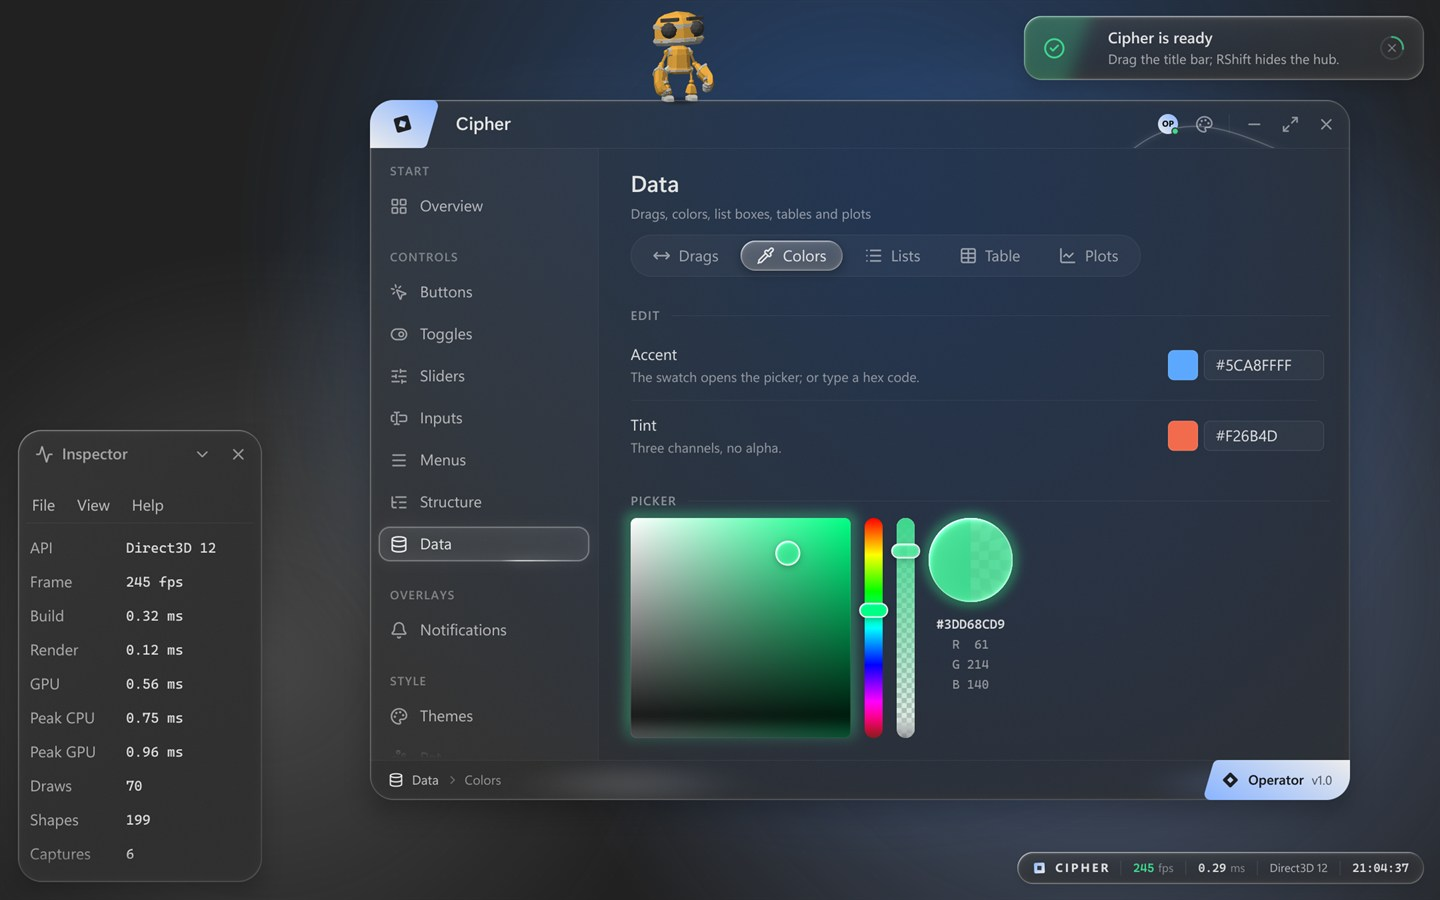
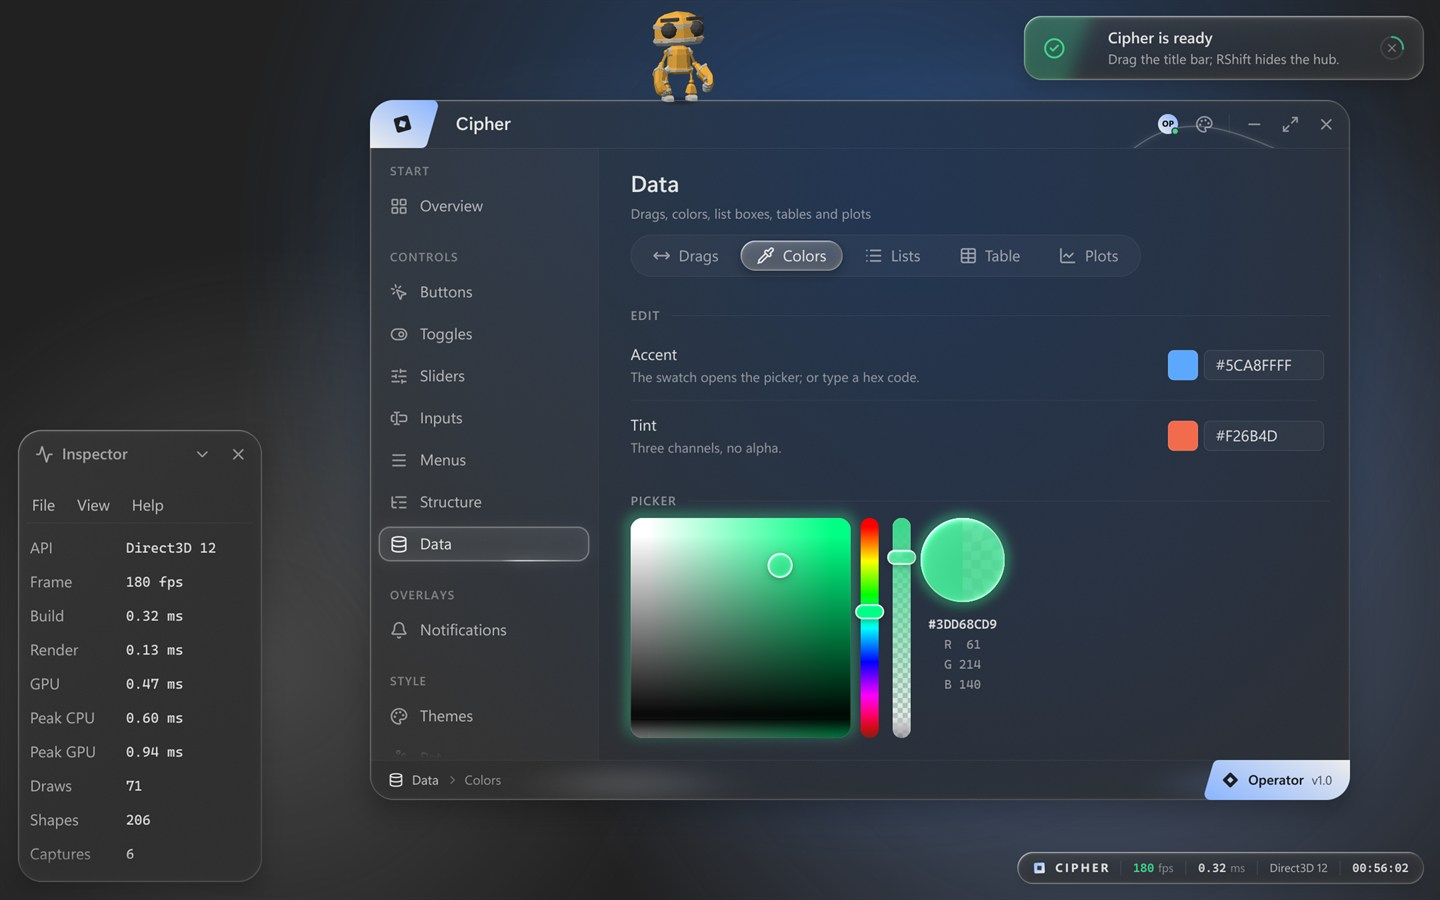
color picker: by the layer rule; knobs that stay on their bar and square; a drop-down clipped to its surface
- In a ColorEdit's popup (18), the picker sits one step in and its square is rounded 12, concentric with the popup's
  corners. It sat two steps in with corners of 6, which looked sharp and stepped beside the popup's. The square is
  rounded 12 in a full picker too.
- Each bar is a column: the bar and its knob's overhang at rest, a step before it. Every gap is a step to what shows at
  rest: the square to the hue knob, knob to knob, the alpha knob to the popup's edge and to the orb.
- The bars' knobs run between the centers of their rounded ends. At the very top they hung half off the bar, and the
  lens showed the dark beyond it: a piece of the knob looked missing. The colors run along the same span, the ends
  keep the end colors, so the color under a knob is its value.
- The square's knob runs as far in from the edges as it is wide when swollen, so at an edge or a corner it is all
  over the square. The square's colors run along that span, the run's edge colors beyond it.
- A drop-down's content is clipped to its surface, not to its padding. A knob's rim and shadow reach into the padding,
  and so did the bottom rim of a combo's selection pill when the last item was chosen; both were cut.

Other popups are pixel for pixel as before; docs/hero.jpg is captured again.

Changed region(s): [[0.5938, 0.56, 0.7188, 0.84], [0.4375, 0.56, 0.5, 0.6533], [0.5312, 0.5911, 0.5625, 0.6533]]

diff --git a/cipher/data.cpp b/cipher/data.cpp
@@ -466,17 +466,27 @@ namespace cipher
                 cs.v = v;
             }
         }
-        const float bar = 18.0f, gap = 14.0f, orbD = 84.0f;
-        const float bars = (alpha ? 2.0f : 1.0f) * (bar + gap);
+        // each bar a column: the bar and its knob's overhang at rest on both sides, a step before it - every gap a step,
+        // counted to what shows at rest
+        const float bar = 18.0f, over = 4.0f, step = m::kStep, orbD = 84.0f;
+        const float bars = (alpha ? 2.0f : 1.0f) * (step + over + bar + over);
         const float avail = ContentWidth();
         const float S = std::max(std::min(220.0f, avail - bars), 80.0f);
-        const bool orb = avail >= S + bars + gap + orbD;
-        const Rect area = ItemRect(Vec2(S + bars + (orb ? gap + orbD : 0.0f), S));
+        const bool orb = avail >= S + bars + step + orbD;
+        const Rect area = ItemRect(Vec2(S + bars + (orb ? step + orbD : 0.0f), S));
         ctx_.ItemAdd(0, area);
         const Rect sq(area.min, area.min + Vec2(S, S));
-        const Rect hueR(sq.max.x + gap, sq.min.y, sq.max.x + gap + bar, sq.max.y);
-        const Rect alR(hueR.max.x + gap, sq.min.y, hueR.max.x + gap + bar, sq.max.y);   // with alpha
+        const Rect hueR(sq.max.x + step + over, sq.min.y, sq.max.x + step + over + bar, sq.max.y);
+        const Rect alR(hueR.max.x + over + step + over, sq.min.y, hueR.max.x + over + step + over + bar, sq.max.y);   // with alpha
+        // the square a layer in from what holds it: in a popup (18) one step in, its corners concentric with the popup's
+        const float sqR = m::kRadiusControl;
         const float alphaNow = alpha ? col[3] : 1.0f;
+        // the bars' knobs run between the centers of their rounded ends: at either end a knob is round with the end, all
+        // of the bar's color under it (from the bar's very end it hung half off the bar, a lens on what lay beyond)
+        const float ends = bar * 0.5f, run = S - 2.0f * ends;
+        // and the square's knob as far in from its edges as it is wide swollen: at an edge or a corner it is all over the
+        // square, the colors along its run, beyond it the run's edge colors
+        const float inSV = 18.0f, runSV = S - 2.0f * inSV;
         const InputState& in = ctx_.Input();
         const double now = in.Time();
         bool changed = false;
@@ -494,18 +504,18 @@ namespace cipher
         };
         if (dragArea(1, sq))
         {
-            cs.s = Clamp01((in.MousePos().x - sq.min.x) / S);
-            cs.v = 1.0f - Clamp01((in.MousePos().y - sq.min.y) / S);
+            cs.s = Clamp01((in.MousePos().x - sq.min.x - inSV) / runSV);
+            cs.v = 1.0f - Clamp01((in.MousePos().y - sq.min.y - inSV) / runSV);
             changed = true;
         }
         if (dragArea(2, hueR))
         {
-            cs.h = std::min(Clamp01((in.MousePos().y - hueR.min.y) / S), 0.9999f);
+            cs.h = std::min(Clamp01((in.MousePos().y - hueR.min.y - ends) / run), 0.9999f);
             changed = true;
         }
         if (alpha && dragArea(3, alR))
         {
-            col[3] = 1.0f - Clamp01((in.MousePos().y - alR.min.y) / S);
+            col[3] = 1.0f - Clamp01((in.MousePos().y - alR.min.y - ends) / run);
             changed = true;
         }
         if (changed)
@@ -532,22 +542,39 @@ namespace cipher
         const Color glow = AnimColor(id, 0, picked, kSmooth);
         // the square: its hue the knob's (it glides with it), a glow of the color picked around it
         const Color hue = HueColor(cs.hy.value);
-        Style square = Style().Radius(m::kRadiusInner).Fill(Paint::Linear(Color::White(), hue, 0.0f));
+        Style square = Style().Radius(sqR).Fill(Paint::Linear(Color::White(), hue, 0.0f));
         if (windows_.empty() || !windows_.back().popup)
             square.Glow(glow, 14.0f, 0.3f);
         p.Rect(sq, square);
-        p.Rect(sq, Style().Radius(m::kRadiusInner).Fill(Paint::Linear(Color(0.0f, 0.0f, 0.0f, 0.0f), Color::Black(), 90.0f)).Stroke(1.0f / pixelScale_, Ink(0.12f), 0.0f));
+        {
+            const float x0 = sq.min.x + inSV, x1 = sq.max.x - inSV, y0 = sq.min.y + inSV, y1 = sq.max.y - inSV;
+            p.PushMask(sq, sqR);
+            p.Rect(Rect(sq.min.x, sq.min.y, x0 + 0.5f, sq.max.y), Style().Fill(Color::White()));
+            p.Rect(Rect(x0, sq.min.y, x1, sq.max.y), Style().Fill(Paint::Linear(Color::White(), hue, 0.0f)));
+            p.Rect(Rect(x1 - 0.5f, sq.min.y, sq.max.x, sq.max.y), Style().Fill(hue));
+            p.Rect(Rect(sq.min.x, y0, sq.max.x, y1), Style().Fill(Paint::Linear(Color(0.0f, 0.0f, 0.0f, 0.0f), Color::Black(), 90.0f)));
+            p.Rect(Rect(sq.min.x, y1 - 0.5f, sq.max.x, sq.max.y), Style().Fill(Color::Black()));
+            p.PopMask();
+        }
+        p.Rect(sq, Style().Radius(sqR).Fill(Color(0.0f, 0.0f, 0.0f, 0.0f)).Stroke(1.0f / pixelScale_, Ink(0.12f), 0.0f));
+        // the colors along the knobs' run, each end the color of the run's end
         p.PushMask(hueR, bar * 0.5f);
+        p.Rect(Rect(hueR.min.x, hueR.min.y, hueR.max.x, hueR.min.y + ends + 0.5f), Style().Fill(HueColor(0.0f)));
         for (int i = 0; i < 6; ++i)
         {
             const float a = (float)i / 6.0f, z = (float)(i + 1) / 6.0f;
-            p.Rect(Rect(hueR.min.x, hueR.min.y + S * a, hueR.max.x, hueR.min.y + S * z + 0.5f), Style().Fill(Paint::Linear(HueColor(a), HueColor(z), 90.0f)));
+            p.Rect(Rect(hueR.min.x, hueR.min.y + ends + run * a, hueR.max.x, hueR.min.y + ends + run * z + 0.5f), Style().Fill(Paint::Linear(HueColor(a), HueColor(z), 90.0f)));
         }
+        p.Rect(Rect(hueR.min.x, hueR.max.y - ends, hueR.max.x, hueR.max.y), Style().Fill(HueColor(1.0f)));
         p.PopMask();
         if (alpha)
         {
             Checker(p, alR, bar * 0.5f, 5.0f, Color::Hex(0xEDEDED), Color::Hex(0xBDBDBD));
-            p.Rect(alR, Style().Radius(bar * 0.5f).Fill(Paint::Linear(glow, glow.WithAlpha(0.0f), 90.0f)).Stroke(1.0f / pixelScale_, Ink(0.12f), 0.0f));
+            p.PushMask(alR, bar * 0.5f);
+            p.Rect(Rect(alR.min.x, alR.min.y, alR.max.x, alR.min.y + ends + 0.5f), Style().Fill(glow));
+            p.Rect(Rect(alR.min.x, alR.min.y + ends, alR.max.x, alR.max.y - ends), Style().Fill(Paint::Linear(glow, glow.WithAlpha(0.0f), 90.0f)));
+            p.PopMask();
+            p.Rect(alR, Style().Radius(bar * 0.5f).Fill(Color(0.0f, 0.0f, 0.0f, 0.0f)).Stroke(1.0f / pixelScale_, Ink(0.12f), 0.0f));
         }
         // ripples where it was clicked: a ring spreading out and fading, inside what was clicked
         cs.rings.erase(std::remove_if(cs.rings.begin(), cs.rings.end(), [&](const ColorState::Ring& r) { return now - r.born >= 0.7; }), cs.rings.end());
@@ -556,7 +583,7 @@ namespace cipher
             const float age = (float)((now - r.born) / 0.7);
             const Vec2 at = area.min + r.at;
             const Rect& clicked = sq.Contains(at) ? sq : (hueR.Contains(at) ? hueR : alR);
-            p.PushMask(clicked, clicked == sq ? m::kRadiusInner : bar * 0.5f);
+            p.PushMask(clicked, clicked == sq ? sqR : bar * 0.5f);
             p.Ring(at, 6.0f + 64.0f * EaseOutCubic(age), 2.0f * (1.0f - age) + 0.5f, Style().Fill(Color::White(0.85f * (1.0f - age) * (1.0f - age))));
             p.PopMask();
         }
@@ -578,12 +605,12 @@ namespace cipher
         };
         const float sw = cs.swellSV.value;
         const float R = 11.0f + 7.0f * sw;
-        const Vec2 k(sq.min.x + S * cs.sx.value, sq.min.y + S * cs.vy.value);
+        const Vec2 k(sq.min.x + inSV + runSV * cs.sx.value, sq.min.y + inSV + runSV * cs.vy.value);
         const auto lift = [](float swell) { return Style().Shadow(Color::Black(0.32f + 0.12f * swell), 8.0f + 10.0f * swell, Vec2(0.0f, 2.0f + 5.0f * swell)); };
         p.Circle(k, R, lift(sw).Glass(lens(R, 0.55f + 0.3f * Clamp01(sw))).Stroke(1.5f, Color::White(0.92f), 1.0f));
         const auto barKnob = [&](const Rect& r, float at, float swell) {
-            const float y = r.min.y + S * at, half = 6.0f + 4.0f * swell;
-            const Rect knob(r.min.x - 4.0f - 2.0f * swell, y - half, r.max.x + 4.0f + 2.0f * swell, y + half);
+            const float y = r.min.y + ends + run * at, half = 6.0f + 4.0f * swell;
+            const Rect knob(r.min.x - over - 2.0f * swell, y - half, r.max.x + over + 2.0f * swell, y + half);
             p.Rect(knob, lift(swell).Radius(half).Glass(lens(half, 0.4f + 0.25f * Clamp01(swell))).Stroke(1.5f, Color::White(0.92f), 1.0f));
         };
         barKnob(hueR, cs.hy.value, cs.swellHue.value);
@@ -594,7 +621,7 @@ namespace cipher
         if (orb)
         {
             const float orr = orbD * 0.5f;
-            const Vec2 oc((alpha ? alR : hueR).max.x + gap + orr, sq.min.y + orr);
+            const Vec2 oc((alpha ? alR : hueR).max.x + over + step + orr, sq.min.y + orr);
             const Rect ob = Rect::FromCenter(oc, Vec2(orbD, orbD));
             const float lean = std::max(cs.swellSV.value, std::max(cs.swellHue.value, alpha ? cs.swellAlpha.value : 0.0f));
             p.PushScale(oc, 1.0f + 0.04f * lean);
@@ -682,19 +709,16 @@ namespace cipher
             changed = true;
         if (entered)
             ctx_.SetKeyboardFocusId(0);
-        // the picker
-        // the picker, 12 in from the popup's edges all round: its padding and as much again (the bars and the gaps
-        // before them as ColorPickerEx lays them out)
+        // the picker, one step in from the popup's edges (its padding): its square rounded concentric with the popup, its
+        // bars' knobs a step from the edge at rest (ColorPickerEx's columns)
         const Vec2 d = ctx_.DisplaySize();
         const bool above = sw.max.y + 260.0f > d.y && sw.min.y > 260.0f;
         const float bars = alpha ? 64.0f : 32.0f;
         if (BeginPopupEx(pid, above ? Vec2(sw.min.x, sw.min.y - 6.0f) : Vec2(sw.min.x, sw.max.y + 6.0f), above ? Vec2(0.0f, 1.0f) : Vec2(0.0f, 0.0f),
-                         Vec2(244.0f + bars, 0.0f), Vec2(sw.Center().x, above ? sw.min.y : sw.max.y), false, true))
+                         Vec2(220.0f + bars + 2.0f * m::kStep, 0.0f), Vec2(sw.Center().x, above ? sw.min.y : sw.max.y), false, true))
         {
-            ctx_.SetCursorPos(ctx_.CursorPos() + Vec2(6.0f, 6.0f));
             if (ColorPickerEx("##picker", c4, alpha))
                 changed = true;
-            ctx_.ItemSize(Vec2(0.0f, 0.0f));
             EndPopupEx();
         }
         if (changed)

diff --git a/cipher/popups.cpp b/cipher/popups.cpp
@@ -100,7 +100,8 @@ namespace cipher
             Surface(p, rolled, std::min(m::kRadiusPanel, h * 0.5f), SurfaceKind::Popup, shown_.raised, 0.8f * a);
             p.SetAlpha(alpha_.back());
             dl.PopClipRect();
-            ctx_.PushClipRect(rolled, true);
+            // what is in it clipped to its surface, not its padding: a knob's rim and shadow, a ring, may reach into it
+            ctx_.PushClipRect(rolled.Intersect(r), false);
             wf.drop = true;
         }
         else
